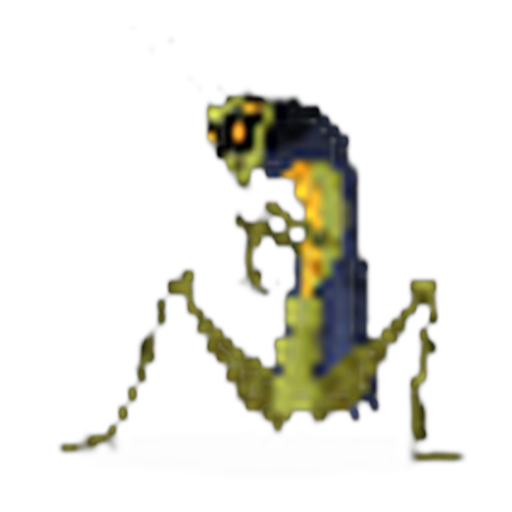
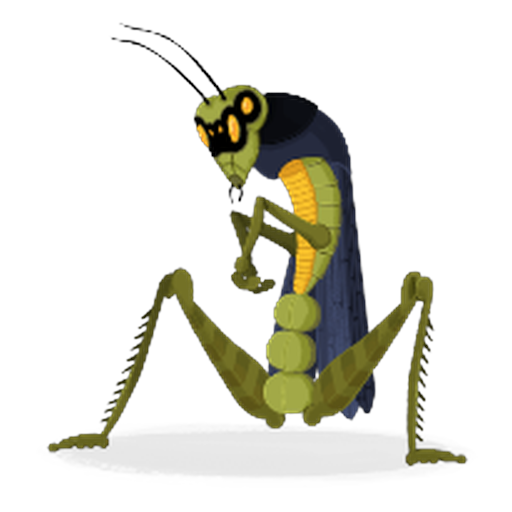
Re-render thieving_hopper at 2048 to fix pixelated bestiary sprite
The Spine vertex bbox for thieving_hopper includes phantom mesh
corners that stretch the camera frame ~10000 wide, so a direct
512 render only fills the visible 44x47-pixel center of the canvas.
The rescale post-processor then upscaled that ~10x with LANCZOS,
producing a blurry, blocky monster sprite that looked obviously
broken next to the rest of the bestiary.

Re-rendering at 2048 first gives Spine WebGL ~16x more atlas
samples, so the actual visible content captures at 178x189. Running
rescale_bestiary against the 2048 source then resamples those 178
pixels down/up to 471, which has real detail to filter rather than
a pixel stub to magnify.

Documented the high-res-source workflow in rescale_bestiary.py for
future severely-undersized cases. Other known-undersized sprites
(fuzzy_wurm_crawler, terror_eel, myte, leaf_slime_m, sludge_spinner)
were spot-checked and look fine at the current resolution; only
thieving_hopper hit the extreme bbox-mismatch case.

Closes #98

Changed region(s): [[0.0938, 0.0312, 0.9062, 0.9062], [0.5625, 0.25, 0.5938, 0.2812]]

diff --git a/tools/rescale_bestiary.py b/tools/rescale_bestiary.py
@@ -11,6 +11,20 @@ This tool re-crops to the true pixel bbox and rescales the content so the
 longer side fills 512 * (1 - 2*padding). Runs on both PNG and WebP if
 present, and keeps the output file path identical to the input.
 
+For severely undersized cases like thieving_hopper, the cleanest fix is
+to render at high resolution first, then let this tool downscale instead
+of upscaling tiny pixel data:
+
+    cd tools/spine-renderer && node render_webgl.mjs \\
+        ../../extraction/raw/animations/monsters/thieving_hopper \\
+        ../../backend/static/images/monsters/thieving_hopper.png 2048
+    python3 tools/rescale_bestiary.py thieving_hopper
+
+The 2048 render gives Spine WebGL ~16x more atlas-pixel-per-output-pixel
+samples than a direct 512 render, so the content this tool then fits to
+512 has real detail to LANCZOS-resample, rather than blocky upscale of a
+44x47 sprite stub.
+
 Usage:
   python3 tools/rescale_bestiary.py <monster_id> [<monster_id>...]
   python3 tools/rescale_bestiary.py --padding 0.04 fuzzy_wurm_crawler
